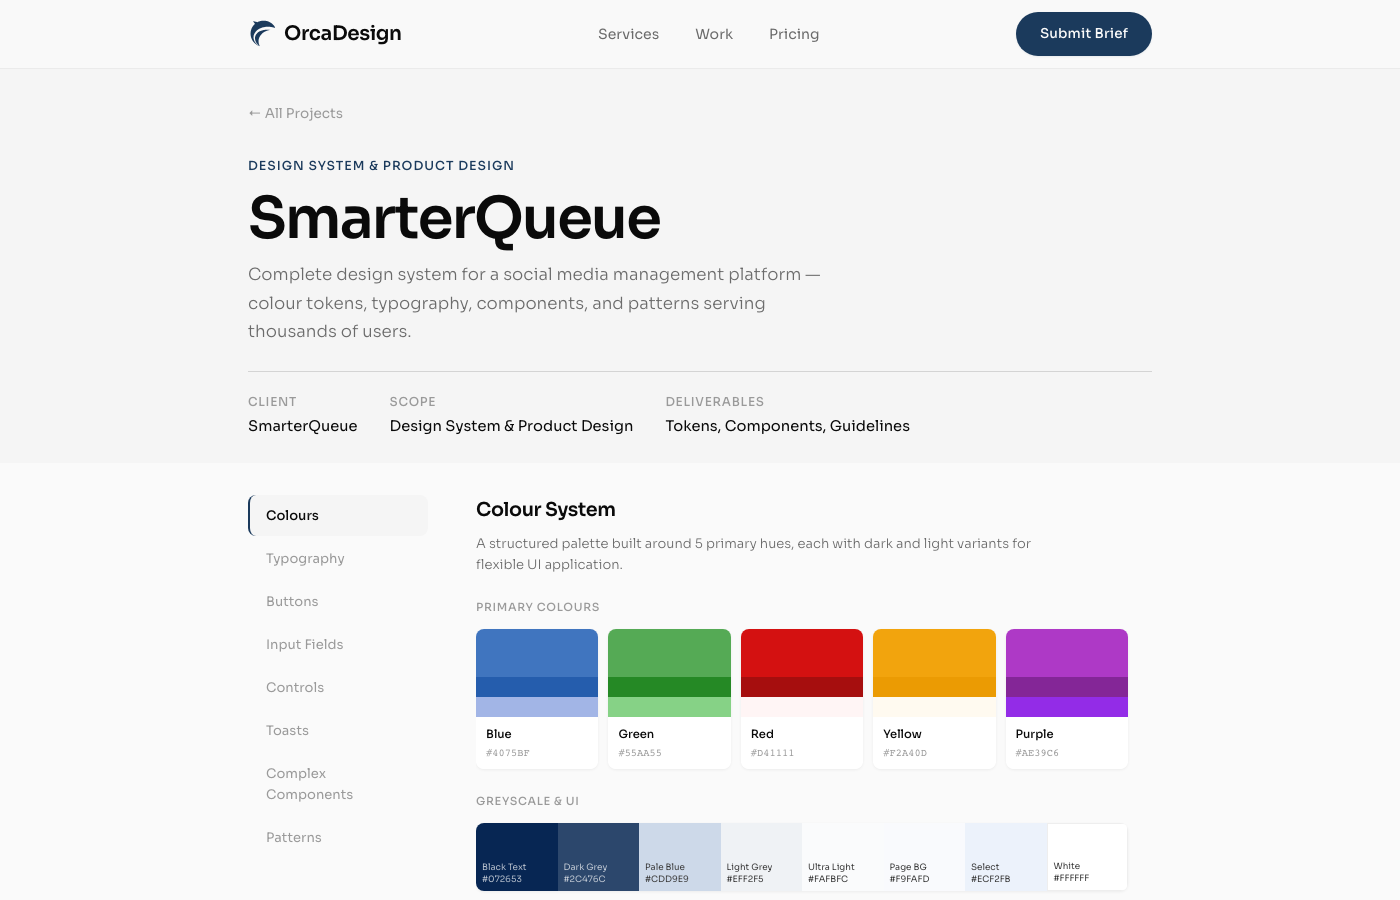
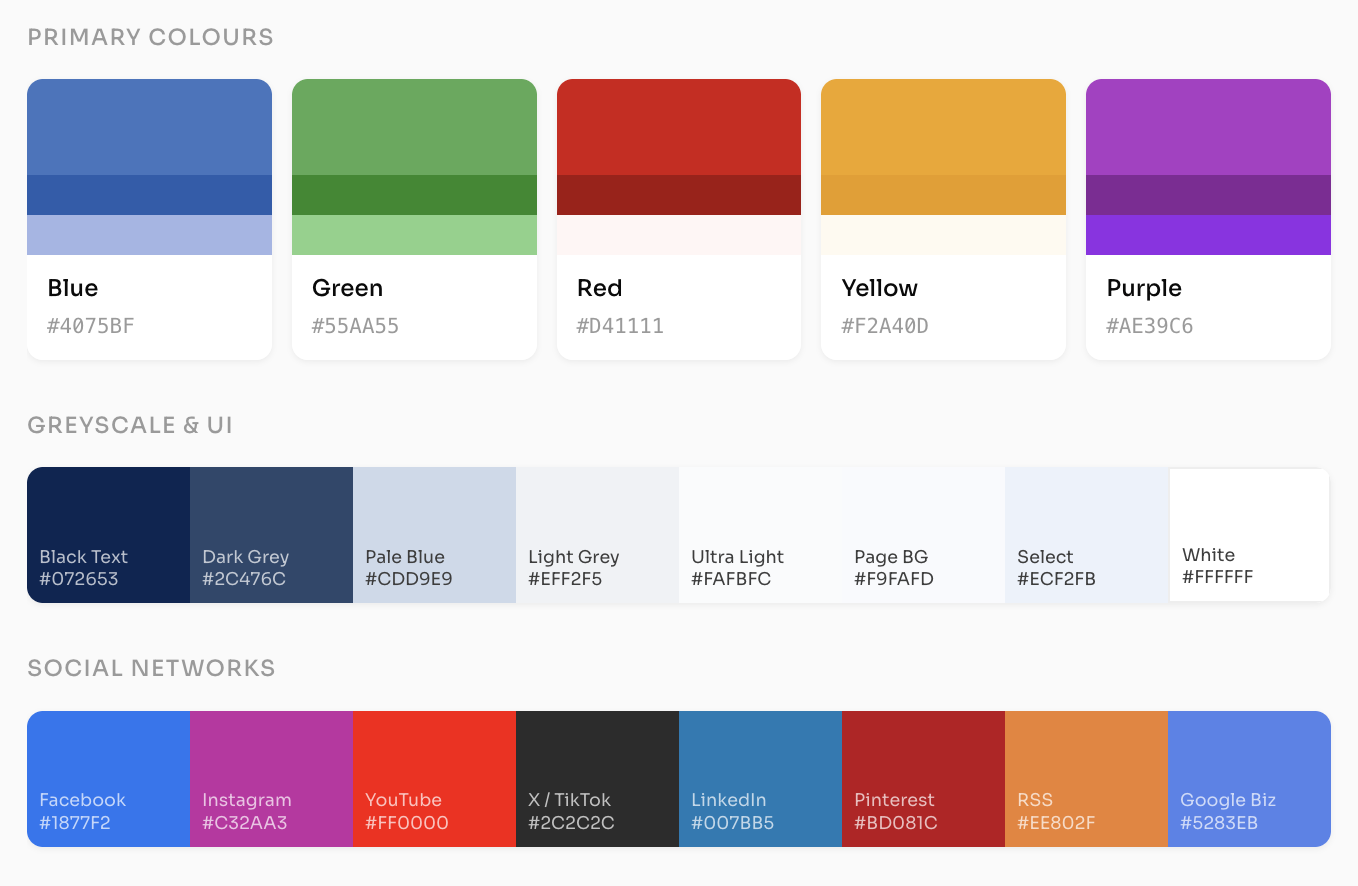
Update SQ cover to color system screenshot, remove design docs link from modal

diff --git a/index.html b/index.html
@@ -2146,10 +2146,6 @@ document.addEventListener('keydown', (e) => {
         <svg width="16" height="16" viewBox="0 0 24 24" fill="currentColor"><path d="M12 0c-6.626 0-12 5.373-12 12 0 5.302 3.438 9.8 8.207 11.387.599.111.793-.261.793-.577v-2.234c-3.338.726-4.033-1.416-4.033-1.416-.546-1.387-1.333-1.756-1.333-1.756-1.089-.745.083-.729.083-.729 1.205.084 1.839 1.237 1.839 1.237 1.07 1.834 2.807 1.304 3.492.997.107-.775.418-1.305.762-1.604-2.665-.305-5.467-1.334-5.467-5.931 0-1.311.469-2.381 1.236-3.221-.124-.303-.535-1.524.117-3.176 0 0 1.008-.322 3.301 1.23A11.509 11.509 0 0 1 12 5.803c1.02.005 2.047.138 3.006.404 2.291-1.552 3.297-1.23 3.297-1.23.653 1.653.242 2.874.118 3.176.77.84 1.235 1.911 1.235 3.221 0 4.609-2.807 5.624-5.479 5.921.43.372.823 1.102.823 2.222v3.293c0 .319.192.694.801.576C20.566 21.797 24 17.3 24 12c0-6.627-5.373-12-12-12z"/></svg>
         Pricing Prototype
       </a>
-      <a href="https://orcadesign.io/work/smarterqueue-ds" target="_blank" class="modal-link modal-link-secondary">
-        <svg width="16" height="16" viewBox="0 0 24 24" fill="none" stroke="currentColor" stroke-width="2"><rect x="3" y="3" width="18" height="18" rx="2"/><path d="M3 9h18"/><path d="M9 21V9"/></svg>
-        Design System Docs
-      </a>
     </div>
     <div class="modal-screens">
       <div class="browser-frame">
